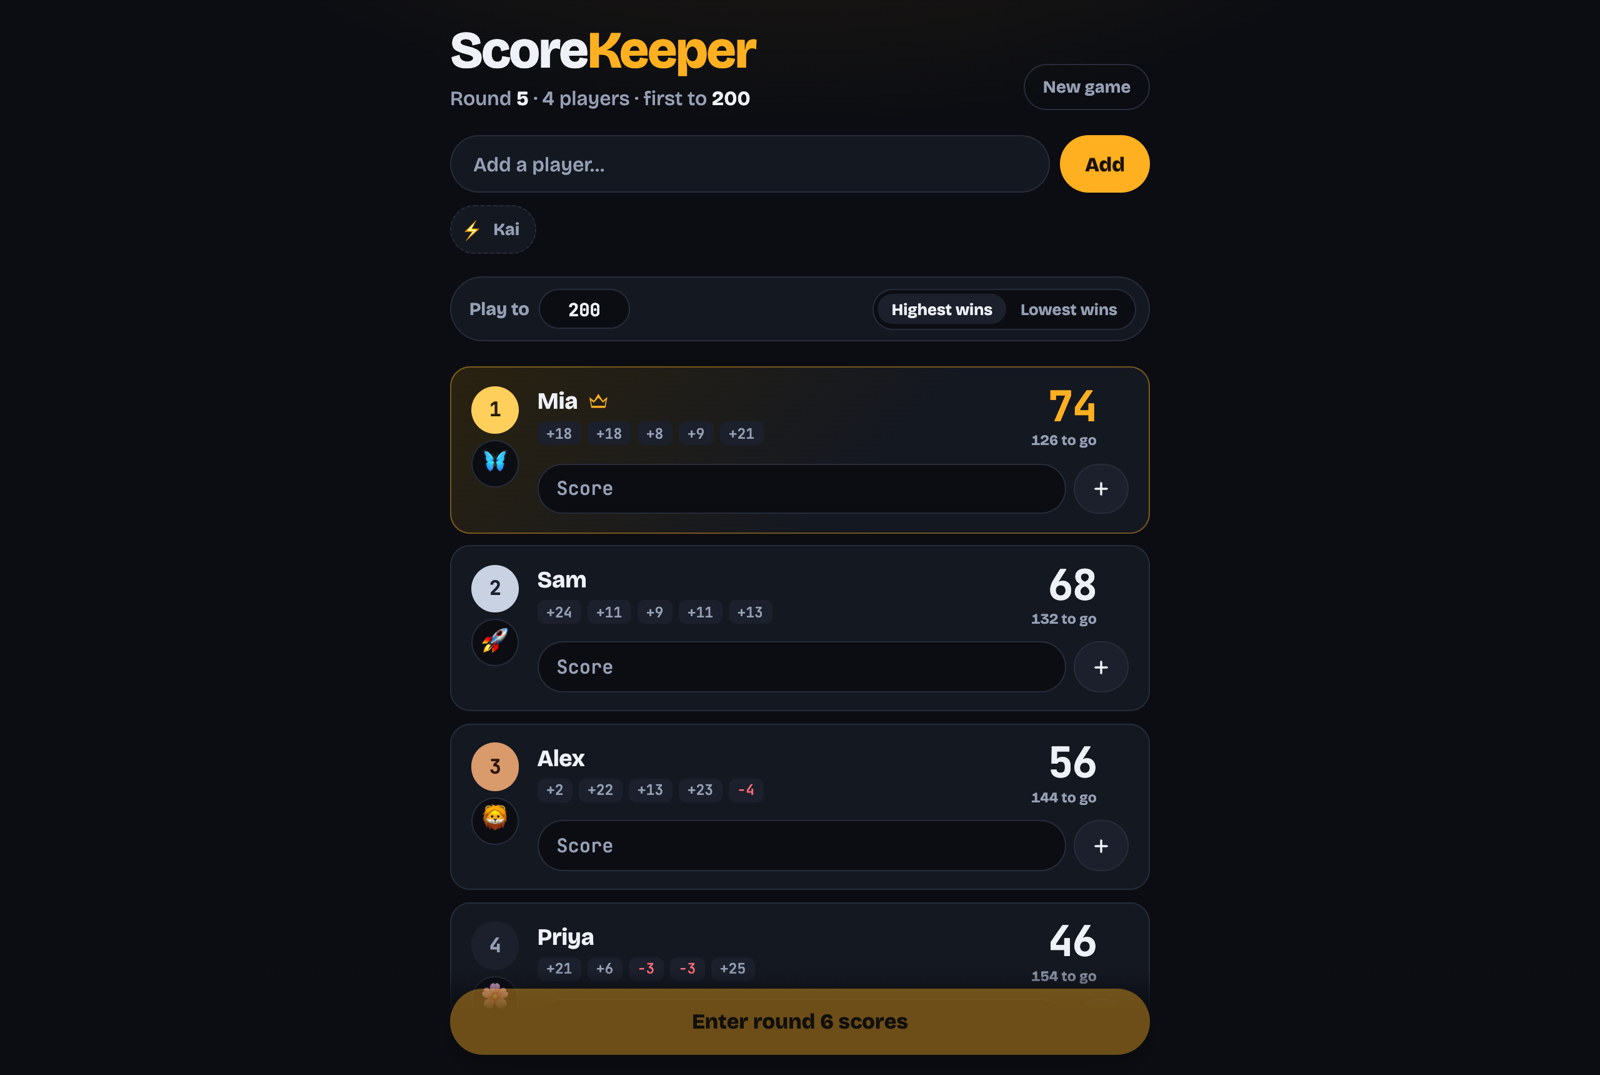
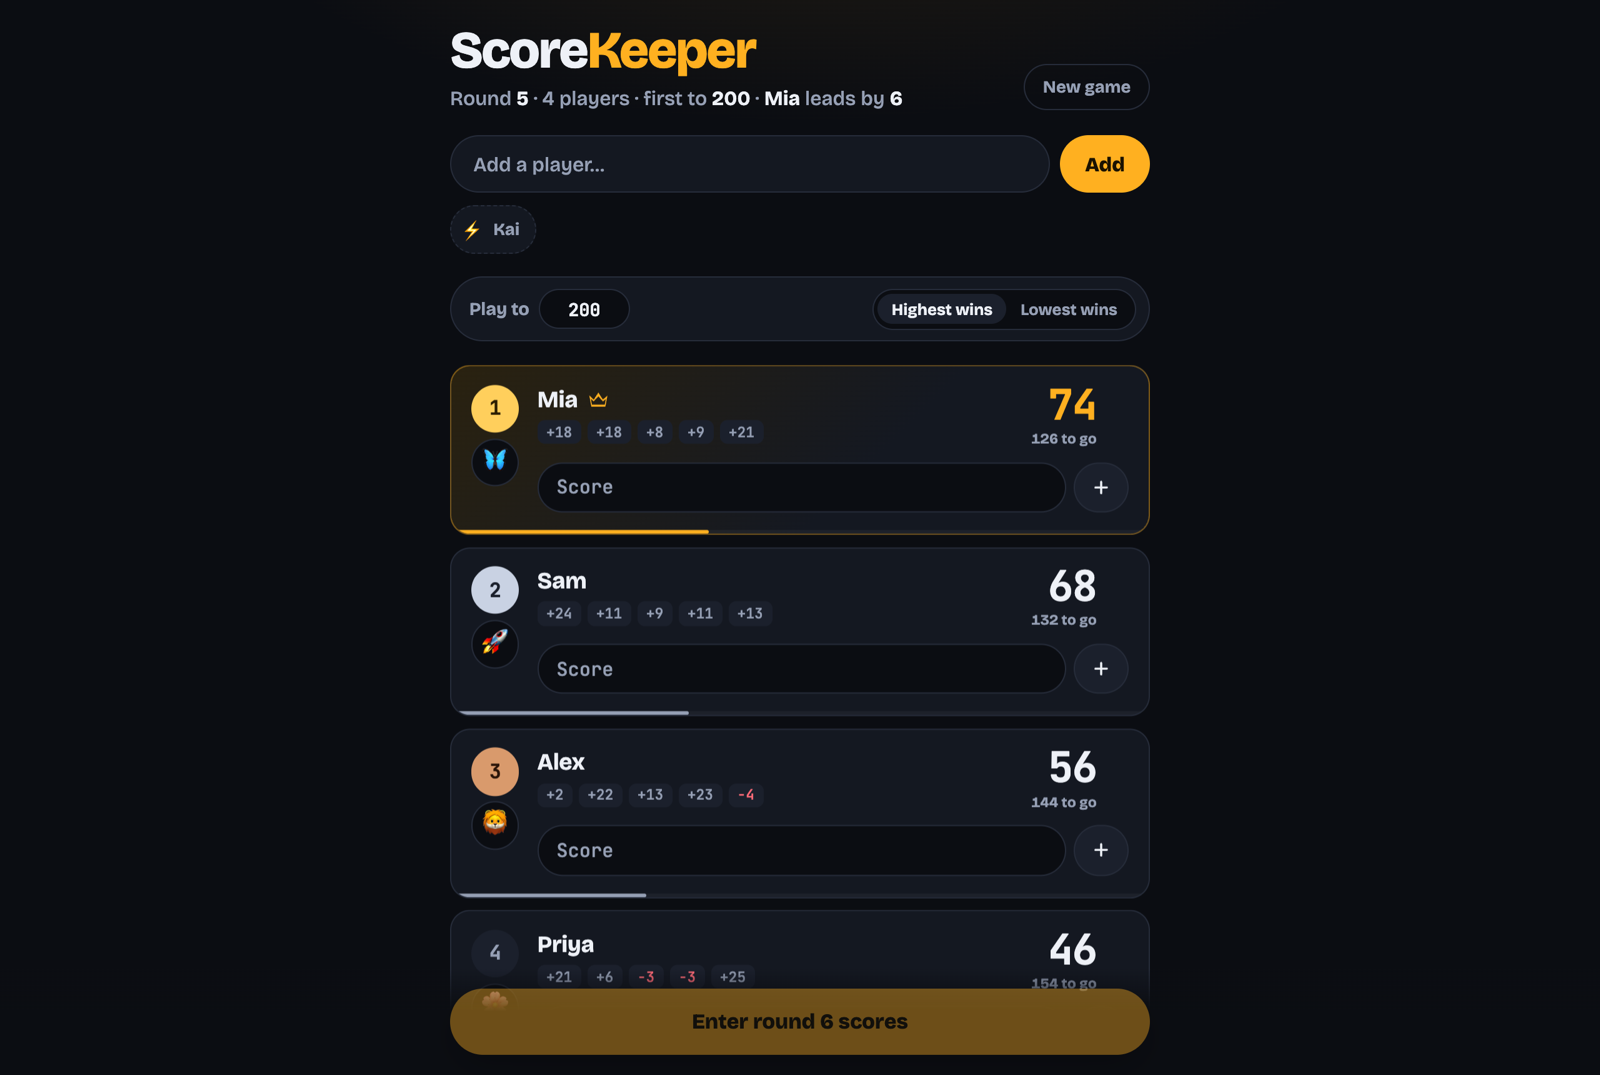
Add rolling totals, progress lines, lead-change sheen, podium finish, and haptics

diff --git a/public/index.html b/public/index.html
@@ -76,9 +76,25 @@
   .player {
     position: relative; display: grid; grid-template-columns: auto 1fr auto; grid-template-areas: "rank name total" "rank hist total" "rank entry entry";
     gap: .25rem .9rem; align-items: center;
-    background: var(--panel); border: 1px solid var(--line); border-radius: var(--radius); padding: .9rem 1rem;
+    background: var(--panel); border: 1px solid var(--line); border-radius: var(--radius); padding: .9rem 1rem 1.05rem;
+    overflow: hidden;
     transition: border-color .3s var(--ease), background .3s var(--ease);
   }
+  /* Progress toward the target along the bottom edge */
+  .prog { position: absolute; left: 0; right: 0; bottom: 0; height: 3px; background: #ffffff0a; }
+  .prog i { display: block; height: 100%; background: var(--muted); border-radius: 0 2px 2px 0; }
+  .lead .prog i { background: var(--accent); }
+  /* Score just entered: it floats up from the total and the newest chip pops in */
+  .float { position: absolute; right: 2.6rem; top: .7rem; font-family: "JetBrains Mono", monospace; font-weight: 700; font-size: 1.1rem; color: var(--accent); pointer-events: none; animation: floatUp .9s var(--ease) forwards; }
+  .float.neg { color: var(--danger); }
+  @keyframes floatUp { from { transform: translateY(8px); opacity: 0; } 25% { opacity: 1; } to { transform: translateY(-30px); opacity: 0; } }
+  .hist b.pop { animation: pop .4s var(--ease); }
+  @keyframes pop { from { transform: scale(.3); opacity: 0; } 65% { transform: scale(1.18); } }
+  /* Lead changes hands: a sheen sweeps the new leader and the crown drops in */
+  .takeover::after { content: ""; position: absolute; inset: 0; background: linear-gradient(115deg, transparent 30%, #ffcf5c2e 50%, transparent 70%); transform: translateX(-100%); animation: sheen 1.1s var(--ease) .1s forwards; pointer-events: none; }
+  @keyframes sheen { to { transform: translateX(100%); } }
+  .takeover .crown { animation: crownDrop .6s var(--ease) both; }
+  @keyframes crownDrop { from { transform: translateY(-12px) scale(2) rotate(-20deg); opacity: 0; } }
   .player.lead { background: linear-gradient(135deg, #2a2210, var(--panel) 60%); border-color: #ffb02066; }
   .player.new { animation: enter .35s var(--ease); }
   @keyframes enter { from { transform: translateY(8px); opacity: 0; } }
@@ -137,8 +153,19 @@
   .over h2 { margin: .75rem 0 .2rem; font-size: 2rem; font-weight: 800; letter-spacing: -.03em; line-height: 1.05; }
   .over h2 b { color: var(--accent); }
   .over .score { font-family: "JetBrains Mono", monospace; font-size: 1.1rem; color: var(--muted); font-weight: 700; }
-  .champ { font-size: 5rem; line-height: 1; display: inline-block; animation: bounce 1s var(--ease) infinite alternate; }
   @keyframes bounce { from { transform: translateY(0) rotate(-6deg); } to { transform: translateY(-16px) rotate(6deg); } }
+  /* Podium: 2nd, 1st, 3rd */
+  .podium { display: flex; align-items: flex-end; justify-content: center; gap: .5rem; margin: 0 auto .25rem; width: min(320px, 100%); }
+  .podium .step { flex: 1; min-width: 0; display: flex; flex-direction: column; align-items: center; }
+  .podium .face { font-size: 2.4rem; line-height: 1; margin-bottom: .4rem; }
+  .podium .p1 .face { font-size: 3.6rem; animation: bounce 1s var(--ease) infinite alternate; }
+  .podium .who { font-weight: 700; font-size: .85rem; max-width: 100%; overflow: hidden; text-overflow: ellipsis; white-space: nowrap; }
+  .podium .pts { font-family: "JetBrains Mono", monospace; font-size: .72rem; color: var(--muted); margin-bottom: .4rem; }
+  .podium .block { width: 100%; border-radius: 10px 10px 0 0; display: grid; place-items: center; font-family: "JetBrains Mono", monospace; font-weight: 700; font-size: 1.1rem; transform-origin: bottom; animation: riseUp .55s var(--ease) both; }
+  .podium .p1 .block { height: 84px; background: var(--gold); color: #2a1d00; animation-delay: .15s; }
+  .podium .p2 .block { height: 58px; background: var(--silver); color: #1a1f2b; animation-delay: .3s; }
+  .podium .p3 .block { height: 40px; background: var(--bronze); color: #2a1408; animation-delay: .45s; }
+  @keyframes riseUp { from { transform: scaleY(0); } }
   .last { margin-top: 1.5rem; padding-top: 1.25rem; border-top: 1px solid var(--line); color: var(--muted); display: flex; align-items: center; justify-content: center; gap: .75rem; }
   .last .face { font-size: 2.4rem; line-height: 1; display: inline-block; filter: grayscale(.6); animation: droop 2.4s ease-in-out infinite; transform-origin: top center; }
   @keyframes droop { 0%, 100% { transform: rotate(-14deg) translateY(2px); } 50% { transform: rotate(14deg) translateY(6px); } }
@@ -203,9 +230,8 @@
 <div class="over" id="over" hidden role="dialog" aria-labelledby="overTitle">
   <div class="card">
     <div id="confetti"></div>
-    <span class="champ" id="champ"></span>
+    <div class="podium" id="podium"></div>
     <h2 id="overTitle"></h2>
-    <div class="score" id="champScore"></div>
     <div class="last" id="last"></div>
     <div class="actions">
       <button class="ghost" id="keepPlaying">Keep playing</button>
@@ -240,6 +266,22 @@
   const fmt = (n) => (n > 0 ? "+" : "") + n;
   const $ = (id) => document.getElementById(id);
   let newIndex = -1;
+  const reduced = () => matchMedia("(prefers-reduced-motion: reduce)").matches;
+  // Remembered between renders so totals can roll, bars can grow, and a lead change can be noticed
+  let lastTotals = new Map(), lastLead = -1;
+  const deltas = new Map(); // player index -> score just entered, consumed by the next render
+
+  // Roll a number from one value to the next, keeping the decimals of the destination
+  function countUp(el, from, to) {
+    if (reduced() || from === to) { el.textContent = to; return; }
+    const dec = (String(to).split(".")[1] || "").length, t0 = performance.now();
+    const tick = (t) => {
+      const k = Math.min(1, (t - t0) / 600), e = 1 - Math.pow(1 - k, 3);
+      el.textContent = (from + (to - from) * e).toFixed(dec);
+      if (k < 1) requestAnimationFrame(tick); else el.textContent = to;
+    };
+    requestAnimationFrame(tick);
+  }
   // All-time roster from the backend, cached so a refresh shows real names instantly.
   // rosterState: "pending" until the first fetch settles, then "ok" or "failed"
   let roster = JSON.parse(localStorage.getItem(KEY + "-roster") || "[]");
@@ -284,7 +326,13 @@
     const before = new Map([...box.children].map((el) => [el.dataset.index, el.getBoundingClientRect().top]));
     box.innerHTML = "";
     const round = Math.max(0, ...players.map((p) => p.scores.length));
-    $("status").innerHTML = `Round <b>${round}</b> · ${players.length} player${players.length === 1 ? "" : "s"} · first to <b>${state.target}</b>${state.lowWins ? " · lowest wins" : ""}`;
+    const ranked = standings();
+    let lead = "";
+    if (ranked.length > 1 && round > 0) {
+      const gap = +Math.abs(ranked[0].total - ranked[1].total).toFixed(2);
+      lead = gap === 0 ? ` · <b>${ranked[0].p.name}</b> and <b>${ranked[1].p.name}</b> tied` : ` · <b>${ranked[0].p.name}</b> leads by <b>${gap}</b>`;
+    }
+    $("status").innerHTML = `Round <b>${round}</b> · ${players.length} player${players.length === 1 ? "" : "s"} · first to <b>${state.target}</b>${state.lowWins ? " · lowest wins" : ""}${lead}`;
     $("reset").hidden = players.length === 0;
     $("bar").hidden = players.length === 0;
     $("enterAll").textContent = `Enter round ${round + 1} scores`;
@@ -322,17 +370,23 @@
       return;
     }
 
-    standings().forEach(({ p, i, total, rank }) => {
+    let leadIndex = -1;
+    ranked.forEach(({ p, i, total, rank }) => {
       const lead = rank === 1 && p.scores.length > 0;
+      if (lead && leadIndex < 0) leadIndex = i;
       const row = document.createElement("div");
       row.className = `player r${rank}` + (lead ? " lead" : "") + (i === newIndex ? " new" : "");
+      const pct = Math.max(0, Math.min(100, (total / state.target) * 100));
+      const prevTotal = lastTotals.get(i);
+      const prevPct = prevTotal === undefined ? pct : Math.max(0, Math.min(100, (prevTotal / state.target) * 100));
       row.dataset.index = i;
       const toGo = +(state.target - total).toFixed(2);
       row.innerHTML = `
         <div class="rank"><b aria-label="Rank ${rank}">${rank}</b><button class="avatar" type="button" title="Change emoji"></button></div>
         <div class="name"><span></span>${lead ? '<svg class="crown"><title>Leader</title><use href="#i-crown"/></svg>' : ""}</div>
         <div class="hist"></div>
-        <div class="total">${total}<small>${toGo > 0 ? `${toGo} to go` : "reached"}</small></div>
+        <div class="total"><span class="num">${total}</span><small>${toGo > 0 ? `${toGo} to go` : "reached"}</small></div>
+        <div class="prog"><i style="width:${pct}%"></i></div>
         <form class="entry"><input type="number" step="any" placeholder="Score" required><button aria-label="Add score"><svg><use href="#i-plus"/></svg></button></form>
         <button class="del" aria-label="Remove player"><svg><use href="#i-x"/></svg></button>`;
       row.querySelector(".name span").textContent = p.name;
@@ -352,17 +406,35 @@
         if (s < 0) b.className = "neg";
         hist.appendChild(b);
       });
+      if (prevTotal !== undefined && prevTotal !== total) {
+        countUp(row.querySelector(".num"), prevTotal, total);
+        if (!reduced()) row.querySelector(".prog i").animate([{ width: `${prevPct}%` }, { width: `${pct}%` }], { duration: 600, easing: "cubic-bezier(.2,.7,.2,1)" });
+      }
+      if (deltas.has(i)) {
+        hist.lastElementChild?.classList.add("pop");
+        const f = document.createElement("span");
+        f.className = "float" + (deltas.get(i) < 0 ? " neg" : "");
+        f.textContent = fmt(deltas.get(i));
+        row.appendChild(f);
+        f.addEventListener("animationend", () => f.remove());
+      }
+      if (lead && leadIndex === i && lastLead !== -1 && lastLead !== i) row.classList.add("takeover");
       row.querySelector("form").onsubmit = (e) => {
         e.preventDefault();
-        p.scores.push(Number(e.target.querySelector("input").value));
+        const v = Number(e.target.querySelector("input").value);
+        p.scores.push(v);
+        deltas.set(i, v);
         commit(i);
       };
       row.querySelector(".del").onclick = async () => {
-        if (await ask(`Remove ${p.name}?`, "Their scores go with them.", "Remove", true)) { players.splice(i, 1); commit(); }
+        if (await ask(`Remove ${p.name}?`, "Their scores go with them.", "Remove", true)) { players.splice(i, 1); lastTotals.clear(); lastLead = -1; commit(); }
       };
       box.appendChild(row);
     });
     newIndex = -1;
+    deltas.clear();
+    lastTotals = new Map(ranked.map((r) => [r.i, r.total]));
+    lastLead = leadIndex;
 
     // Slide cards from their old position to the new one
     if (!matchMedia("(prefers-reduced-motion: reduce)").matches) {
@@ -384,10 +456,20 @@
 
   function showGameOver(ranked) {
     const w = ranked[0], l = ranked[ranked.length - 1];
-    $("champ").textContent = w.p.emoji;
+    const podium = $("podium");
+    podium.innerHTML = "";
+    [ranked[1], ranked[0], ranked[2]].forEach((r) => {
+      if (!r) return;
+      const step = document.createElement("div");
+      step.className = `step p${Math.min(3, r.rank)}`;
+      step.innerHTML = `<span class="face"></span><span class="who"></span><span class="pts">${r.total}</span><div class="block">${r.rank}</div>`;
+      step.querySelector(".face").textContent = r.p.emoji;
+      step.querySelector(".who").textContent = r.p.name;
+      podium.appendChild(step);
+    });
     $("overTitle").innerHTML = `<b></b> wins!`;
     $("overTitle").querySelector("b").textContent = w.p.name;
-    $("champScore").textContent = `${w.total} points`;
+    navigator.vibrate?.([60, 40, 140]); // Android only; iOS ignores it
     const last = $("last");
     last.hidden = ranked.length < 2 || l.rank === w.rank;
     last.innerHTML = `<span class="face"></span><div><b></b> finishes last<br>${l.total} points</div>`;
@@ -445,7 +527,7 @@
   $("enterAll").onclick = () => {
     document.querySelectorAll(".player").forEach((row) => {
       const input = row.querySelector(".entry input");
-      if (input.value !== "") players[row.dataset.index].scores.push(Number(input.value));
+      if (input.value !== "") { const v = Number(input.value); players[row.dataset.index].scores.push(v); deltas.set(+row.dataset.index, v); }
     });
     commit();
   };
